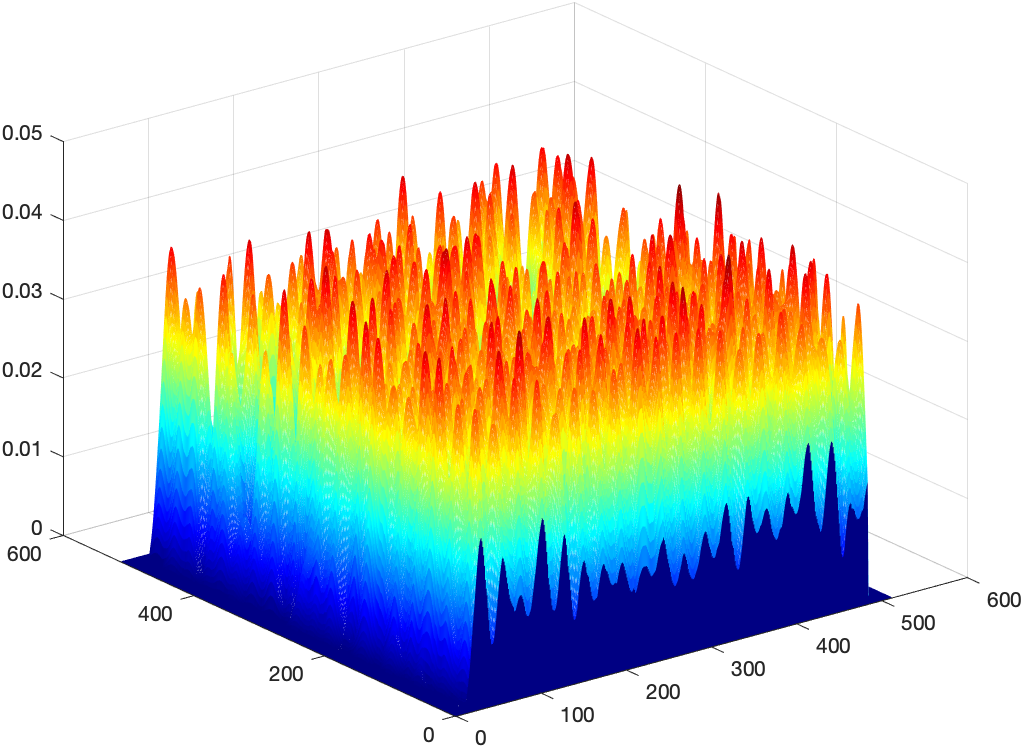
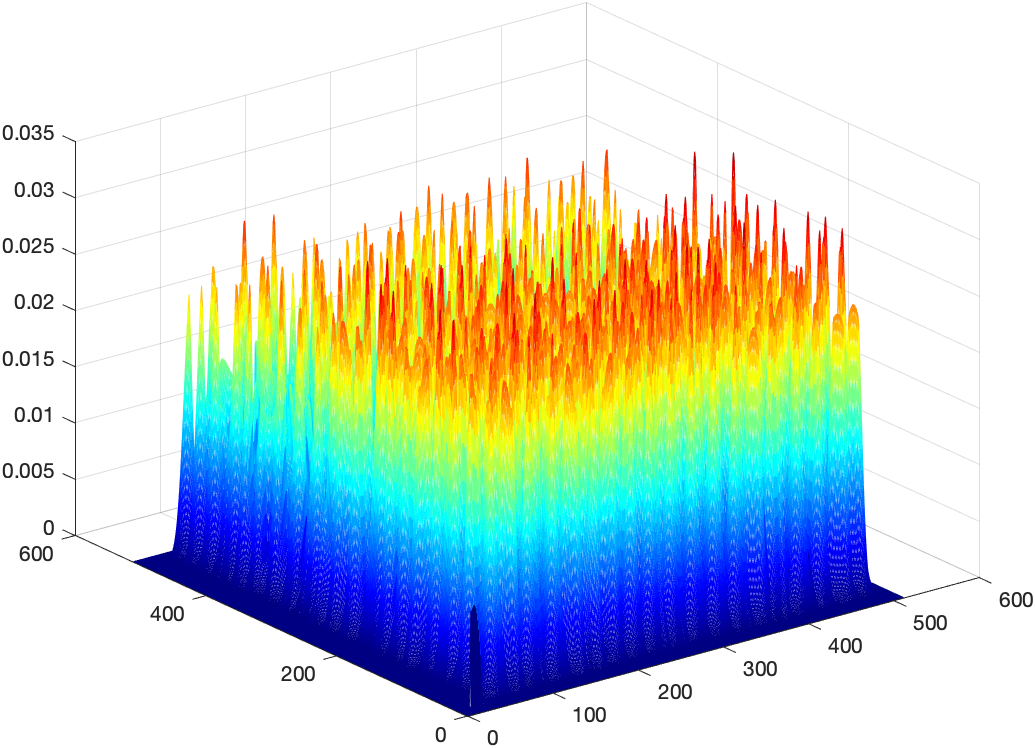
resolved issues

diff --git a/project4/gaussian.m b/project4/gaussian.m
@@ -34,23 +34,27 @@
 
 
 function [gx,gy]=gaussian(sigma, range)
+%here phi=0. Thus gx=gy
 x=-(sigma*range):(sigma*range);
 
-y=-(sigma*range):(sigma*range);
+%y=-(sigma*range):(sigma*range);
 
 gx=zeros(size(x));
-gy=zeros(size(y));
+%gy=zeros(size(y));
 
 denom = 2*pi*sigma.^2;
 
+% for i=1:length(x)
+%    gx(i)=(exp(-(x(i).^2)/(2*(sigma.^2))))/denom; 
+% end
+
 for i=1:length(x)
-   gx(i)=(exp(-(x(i).^2)/(2*(sigma.^2))))/denom; 
+   gx(i)=(exp(-(i.^2)/(2*(sigma.^2))))/denom; 
 end
-
-
-for i=1:length(y)
-   gy(i)=((exp(-(y(i).^2)/(2*(sigma.^2)))))/denom; 
-end
+gy=gx;
+% for i=1:length(y)
+%    gy(i)=(exp(-(y(i).^2)/(2*(sigma.^2))))/denom; 
+% end
 
 
 return;

diff --git a/project4/gef.m b/project4/gef.m
@@ -35,12 +35,21 @@ V=F*sind(theta);
 hx=zeros(length(x));
 hy=zeros(length(y));
 
+% for i=1:length(x)
+%     hx(i)=gx(i)*exp(1i*2*pi*U*x(i));
+% end
+% 
+% for i=1:length(y)
+%     hy(i)=gy(i)*exp(1i*2*pi*V*y(i));
+% end
+
 for i=1:length(x)
-    hx(i)=gx(i)*exp(1i*2*pi*U*x(i));
+    hx(i)=gx(i)*exp(1i*2*pi*U*i);
 end
 
 for i=1:length(y)
-    hy(i)=gy(i)*exp(1i*2*pi*V*y(i));
+    hy(i)=gy(i)*exp(1i*2*pi*V*i);
 end
+
 
 return 

diff --git a/project4/main_1.m b/project4/main_1.m
@@ -50,7 +50,7 @@ for i=1:size(I,1)
         end
     end
 end
-  
+
 gabor_img = gaborFilter(img,F, sigma, theta, width);
 % for i=1:size(gabor_img,1)
 %     for j=1:size(gabor_img,2)
